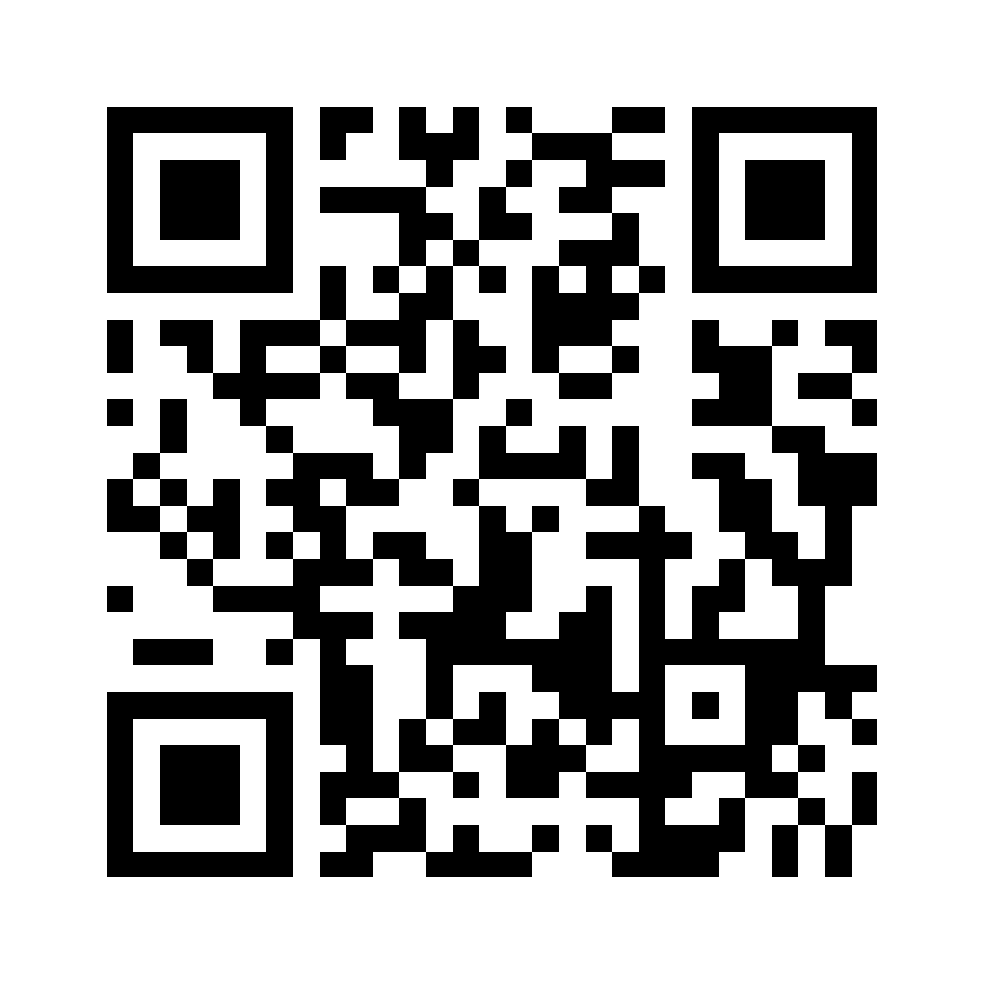
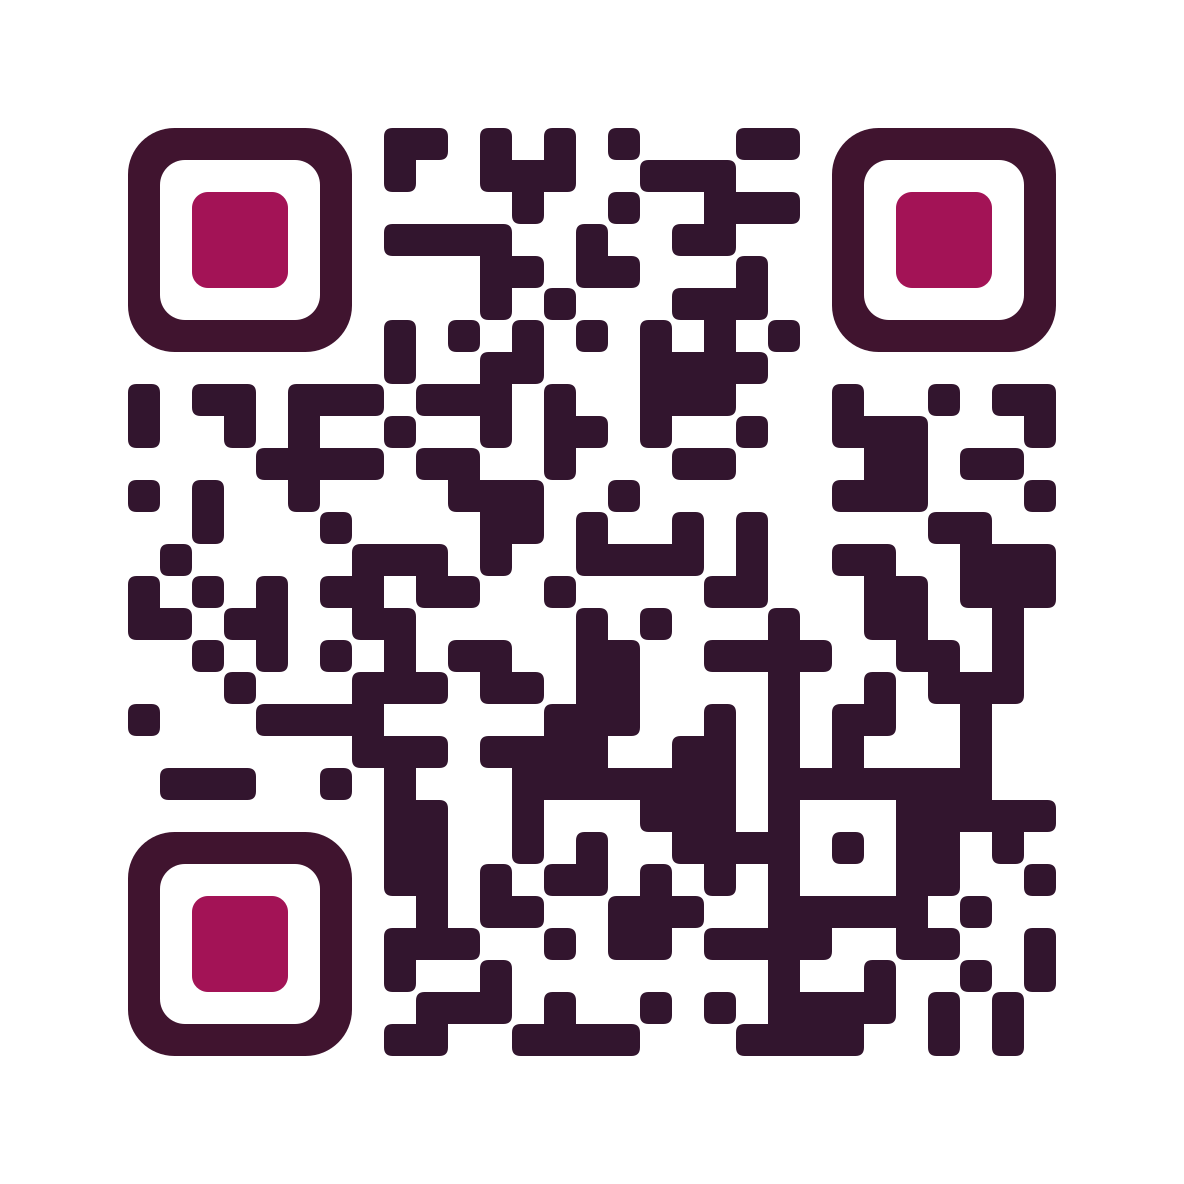
Enlarge the player divider QR and style it in PinkMilk colors

diff --git a/teams/style.css b/teams/style.css
@@ -127,33 +127,19 @@ body {
     width: var(--top-panel-height);
     height: var(--top-panel-height);
     background: white;
-    padding: 15px;
+    /* The image includes the four-module white margin required for scanning. */
+    padding: 0;
+    overflow: hidden;
     border-radius: 20px;
-    box-shadow: 0 10px 40px rgba(0, 0, 0, 0.3);
-    display: flex;
-    flex-direction: column;
-    align-items: center;
-    justify-content: center;
-    transition: transform 0.3s ease;
+    box-shadow: 0 0 0 2px rgba(255, 255, 255, 0.8), 0 8px 24px rgba(64, 20, 47, 0.24);
     z-index: 100;
 }
 
-.qr-code-container:hover {
-    transform: scale(1.05);
-}
-
 .qr-code {
+    display: block;
     width: 100%;
     height: 100%;
     object-fit: contain;
-}
-
-.qr-label {
-    margin-top: 8px;
-    font-size: 0.9rem;
-    font-weight: 600;
-    color: #333;
-    text-align: center;
 }
 
 /* Teams Container - Takes remaining space */
@@ -488,7 +474,6 @@ body {
 :fullscreen .qr-code-container {
     top: 30px;
     left: 30px;
-    transform: scale(0.9);
 }
 
 /* Responsive Design */

diff --git a/teams/index.html b/teams/index.html
@@ -7,7 +7,7 @@
     <title>TeamX - Team Overview</title>
     <link href="https://fonts.googleapis.com/css2?family=Barlow+Semi+Condensed:wght@400;600&display=swap"
         rel="stylesheet">
-    <link rel="stylesheet" href="style.css?v=3.0.0">
+    <link rel="stylesheet" href="style.css?v=3.0.1">
 </head>
 
 <body>
@@ -24,7 +24,7 @@
 
             <!-- QR Code -->
             <div class="qr-code-container">
-                <img src="join-qr.png" alt="Scan om mee te doen aan de actieve quiz" class="qr-code">
+                <img src="join-qr.png?v=2" alt="Scan om mee te doen aan de actieve quiz" class="qr-code">
             </div>
         </div>
 
